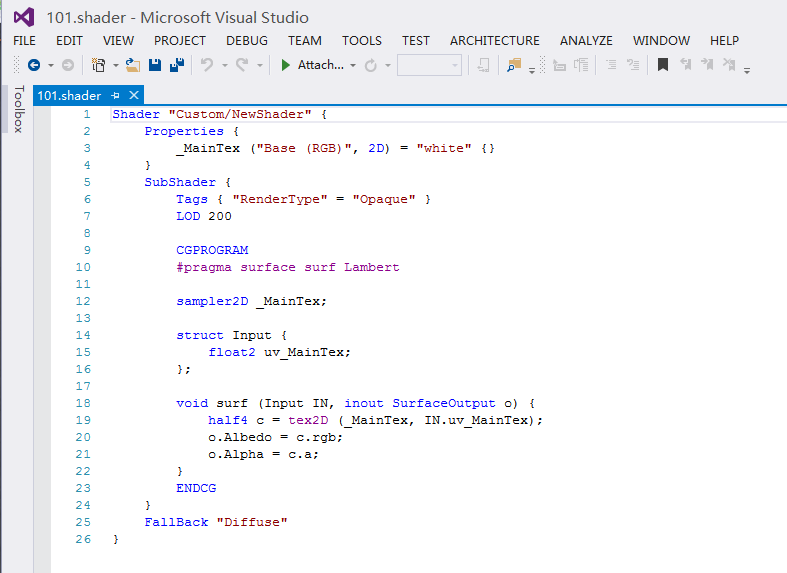
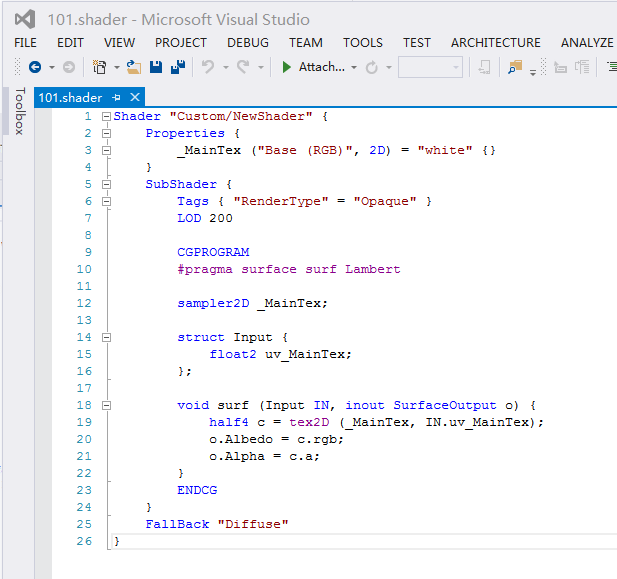
update README and add license

diff --git a/README.md b/README.md
@@ -3,16 +3,9 @@ ShaderlabVS
 
 ShaderlabVS is a Visual Studio Plugin for Unity3D shader programming.  
 
-
-####Features:
-* Syntax Hightlighting(support .shader, .compute, .cginc and .glslinc files) 
-* Quickinfo
-* Code Completion
-* Signature Help
-
 ####Screenshot Preview
 
-* Syntax Hightlighting 
+* Syntax Hightlighting and outlining
 	![](./img/Highlighting.PNG)
 * Quickinfo
 	![](./img/QuickInfo.PNG)
@@ -20,6 +13,18 @@ ShaderlabVS is a Visual Studio Plugin for Unity3D shader programming.
 	![](./img/CodeCompletion.PNG)
 * Signature help for CG and Unity3d built in functions
 	![](./img/SignatureHelp.PNG)
+
+####Features Overiew:
+* Outlining
+* Quickinfo
+* Code Completion
+* Comment/UnComment shorcuts
+    * Press "__Ctrl + E, C__" to comment
+    * Press "__Ctrl + E, U__" to uncomment
+* Signature help for CG and Unity3d built in functions
+* Syntax Hightlighting
+    * support .shader, .compute, .cginc and .glslinc files 
+    * Keywords are case insensitive
 
 
 ####How to build and debug:
@@ -34,7 +39,9 @@ ShaderlabVS is a Visual Studio Plugin for Unity3D shader programming.
 ####Support Visual Studio Version:
 * Visual Studio 2012
 * Visual Studio 2013
+* The other version are not tested, not sure if there are also work or not.
 
-
+####License
+MIT
 
 
